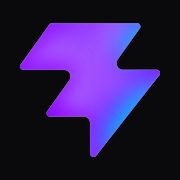
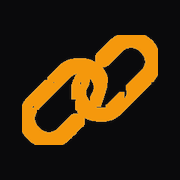
Our own mark in the tab, and no flash of a theme nobody chose
**The icon was not ours.** favicon.svg was a purple-and-blue lightning
bolt -- not the Zidi mark, and near enough to Vite's that people read it
as Vite's. My last commit made it worse: I promoted that bolt to the tab
icon and generated the whole PWA icon set from it. It is deleted, and
every icon is now built from frontend/src/assets/zidi-logo.png.

**The mark, not the logo.** The full logo is an orange chain with a serif
ZIDI wordmark across it. At sixteen pixels that is an orange smudge,
which is why ours read as a squiggle in a tab strip beside Gmail and
WhatsApp -- every one of those is a single bold glyph. So the icons use
the chain alone: the wordmark is masked out by keeping only the orange
pixels, and the strokes are thickened before downscaling, because a
one-pixel outline at 182px is a fraction of a pixel at 16 and dissolves
into grey.

**No flash of the wrong theme.** design started at 'CLASSIC', so every
refresh painted the black-and-amber Signature portal until
/portal-settings came back and snapped to whatever the operator actually
chose. On a captive portal that flash is the first thing a customer sees
of the business. The design is remembered in localStorage and painted
immediately on the next visit; a first-ever visit holds a plain screen
rather than showing somebody else's theme and yanking it away. The file
already applied that reasoning to the section layout -- design itself was
the one thing still guessing.
[…]

diff --git a/frontend/src/pages/Portal.jsx b/frontend/src/pages/Portal.jsx
@@ -116,6 +116,25 @@ const LANGUAGES = [
 const LANG_KEY = 'portal.lang'
 
 /** What the customer chose last time, if anything. */
+const DESIGN_KEY = 'portalDesign'
+
+/**
+ * The design this portal used last time, from before the server has answered.
+ *
+ * <p>Without it the first paint was always Signature -- black canvas, amber
+ * accent -- because that was the initial state, and every refresh showed it for
+ * as long as /portal-settings took to come back before snapping to whatever the
+ * operator actually chose. On a captive portal that flash is the first thing a
+ * customer ever sees of the business.
+ */
+function storedDesign() {
+  try {
+    return normalizeDesignKey(localStorage.getItem(DESIGN_KEY))
+  } catch {
+    return null
+  }
+}
+
 function storedLang() {
   try {
     const saved = localStorage.getItem(LANG_KEY)
@@ -329,7 +348,9 @@ export default function Portal() {
   const [plansError, setPlansError] = useState(false)
   const [custom, setCustom] = useState(null)
   const [promo, setPromo] = useState(null)
-  const [design, setDesign] = useState('CLASSIC')
+  // Null means 'not known yet'. A remembered design paints immediately; a
+  // first-ever visit waits rather than showing somebody else's theme.
+  const [design, setDesign] = useState(storedDesign)
   const [loyaltyEnabled, setLoyaltyEnabled] = useState(false)
   // The ISP's own brand for this captive portal (each tenant sets their own).
   const [brand, setBrand] = useState({ name: '', logoUrl: null, headline: '', subheadline: '' })
@@ -360,7 +381,13 @@ export default function Portal() {
     api('/custom-plan').then(setCustom).catch(() => {})
     api('/promotion').then(setPromo).catch(() => {})
     api('/portal-settings').then((s) => {
-      setDesign(normalizeDesignKey(s.portalTemplate) || 'CLASSIC')
+      const chosen = normalizeDesignKey(s.portalTemplate) || 'CLASSIC'
+      setDesign(chosen)
+      try {
+        localStorage.setItem(DESIGN_KEY, chosen)
+      } catch {
+        // Private browsing. The portal still works; it just flashes once.
+      }
       setLoyaltyEnabled(!!s.loyaltyEnabled)
       // How the operator arranged it, and any wording they rewrote. Both arrive
       // with the branding rather than on a second request, so the first paint is
@@ -528,6 +555,19 @@ export default function Portal() {
         onBuy={choosePlan}
         onActivated={showActivated}
       />
+    )
+  }
+
+  // Nothing remembered and the server has not answered yet: a first-ever
+  // visit. Hold on a plain screen rather than paint a design the operator did
+  // not choose and snap out of it a moment later — on a captive portal that
+  // flash is the first thing a customer sees of the business.
+  if (!forcedDesign.current && !design) {
+    return (
+      <div className="min-h-screen flex items-center justify-center bg-neutral-50">
+        <div className="h-8 w-8 rounded-full border-2 border-neutral-300 border-t-neutral-500
+                        animate-spin" role="status" aria-label="Loading" />
+      </div>
     )
   }
 
@@ -889,7 +929,8 @@ function VoucherSection({ onActivated, delay = 400, place = 'bottom' }) {
   }
 
   return (
-    <section className="bg-surface-container-lowest rounded-xl p-4 shadow-[0_4px_12px_rgba(15,23,42,0.05)] fade-up"
+    <section className="portal-full bg-surface-container-lowest rounded-xl p-4 shadow-[0_4px_12px_rgba(15,23,42,0.05)] fade-up
+                        lg:grid lg:grid-cols-2 lg:gap-6 lg:items-start"
       style={{ animationDelay: `${delay}ms`, order: place === 'top' ? undefined : 1 }}>
       <form onSubmit={submit}>
         <label className="block text-xs font-semibold tracking-wider uppercase text-on-surface-variant mb-2" htmlFor={`voucher-${place}`}>
@@ -915,7 +956,8 @@ function VoucherSection({ onActivated, delay = 400, place = 'bottom' }) {
         </div>
         {msg && <p className={`text-sm mt-2 ${msg.ok ? 'text-primary' : 'text-error'}`}>{msg.text}</p>}
       </form>
-      <div className="mt-4 pt-4 border-t border-outline-variant">
+      <div className="mt-4 pt-4 border-t border-outline-variant
+                      lg:mt-0 lg:pt-0 lg:border-t-0 lg:border-l lg:pl-6">
         <RecoverBox compact />
       </div>
     </section>

diff --git a/frontend/index.html b/frontend/index.html
@@ -2,7 +2,7 @@
 <html lang="en">
   <head>
     <meta charset="UTF-8" />
-    <link rel="icon" type="image/svg+xml" href="/favicon.svg" />
+    <link rel="icon" type="image/png" sizes="64x64" href="/favicon.png" />
     <link rel="icon" type="image/png" sizes="192x192" href="/icon-192.png" />
     <!-- iOS ignores the manifest and wants its own opaque square. -->
     <link rel="apple-touch-icon" href="/apple-touch-icon.png" />
